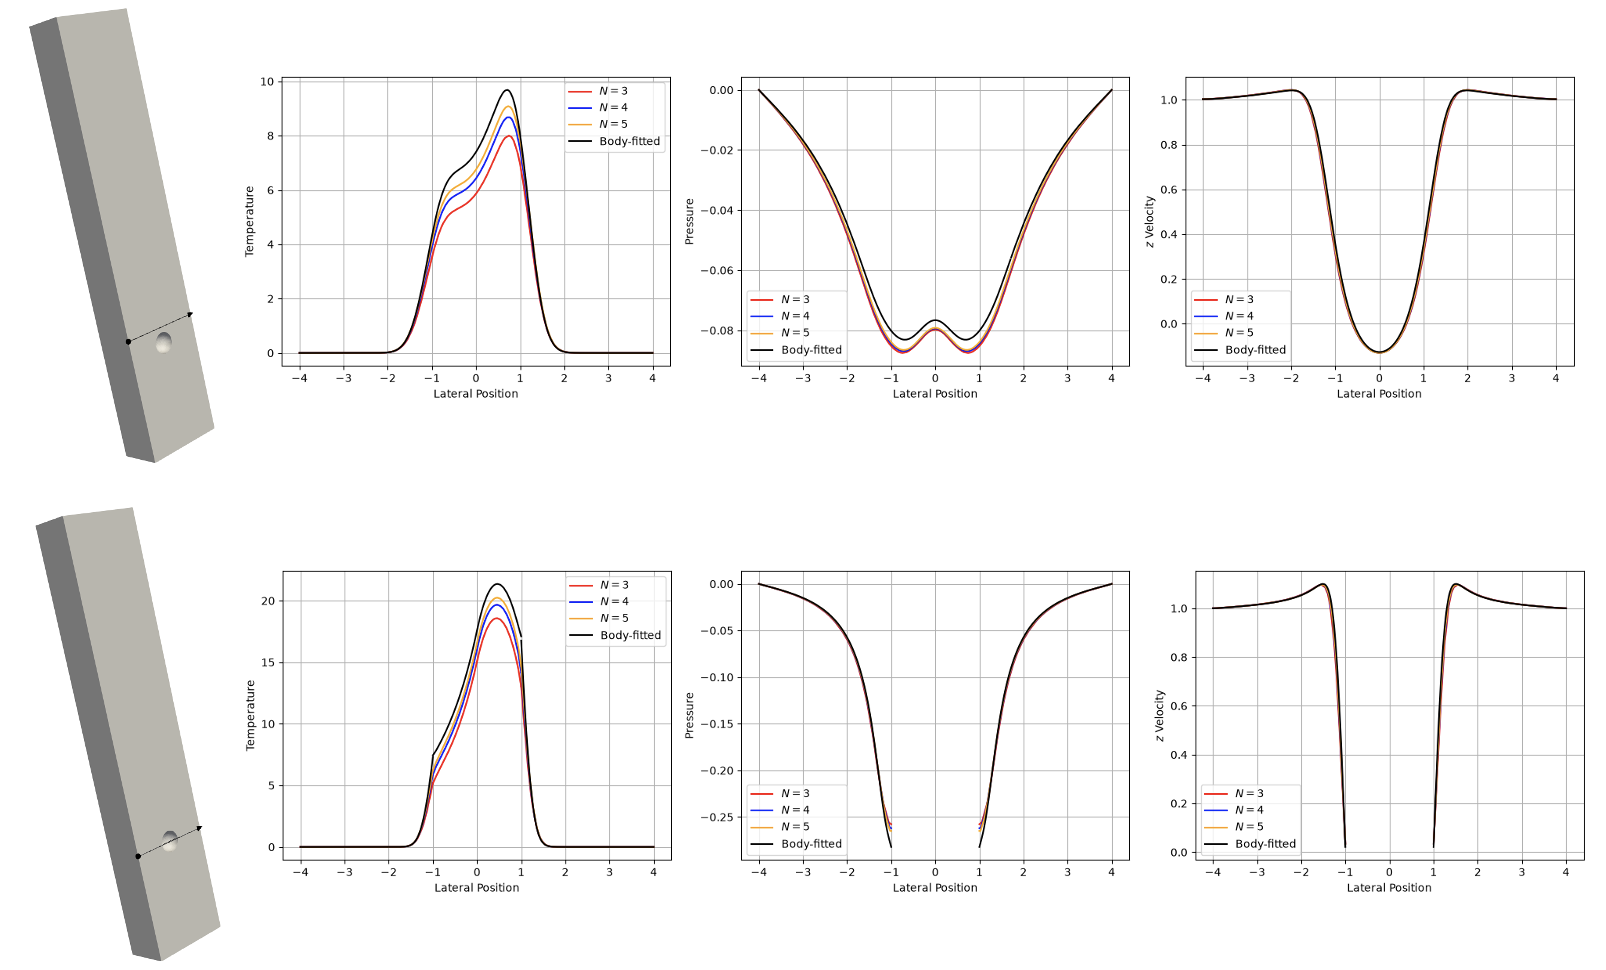
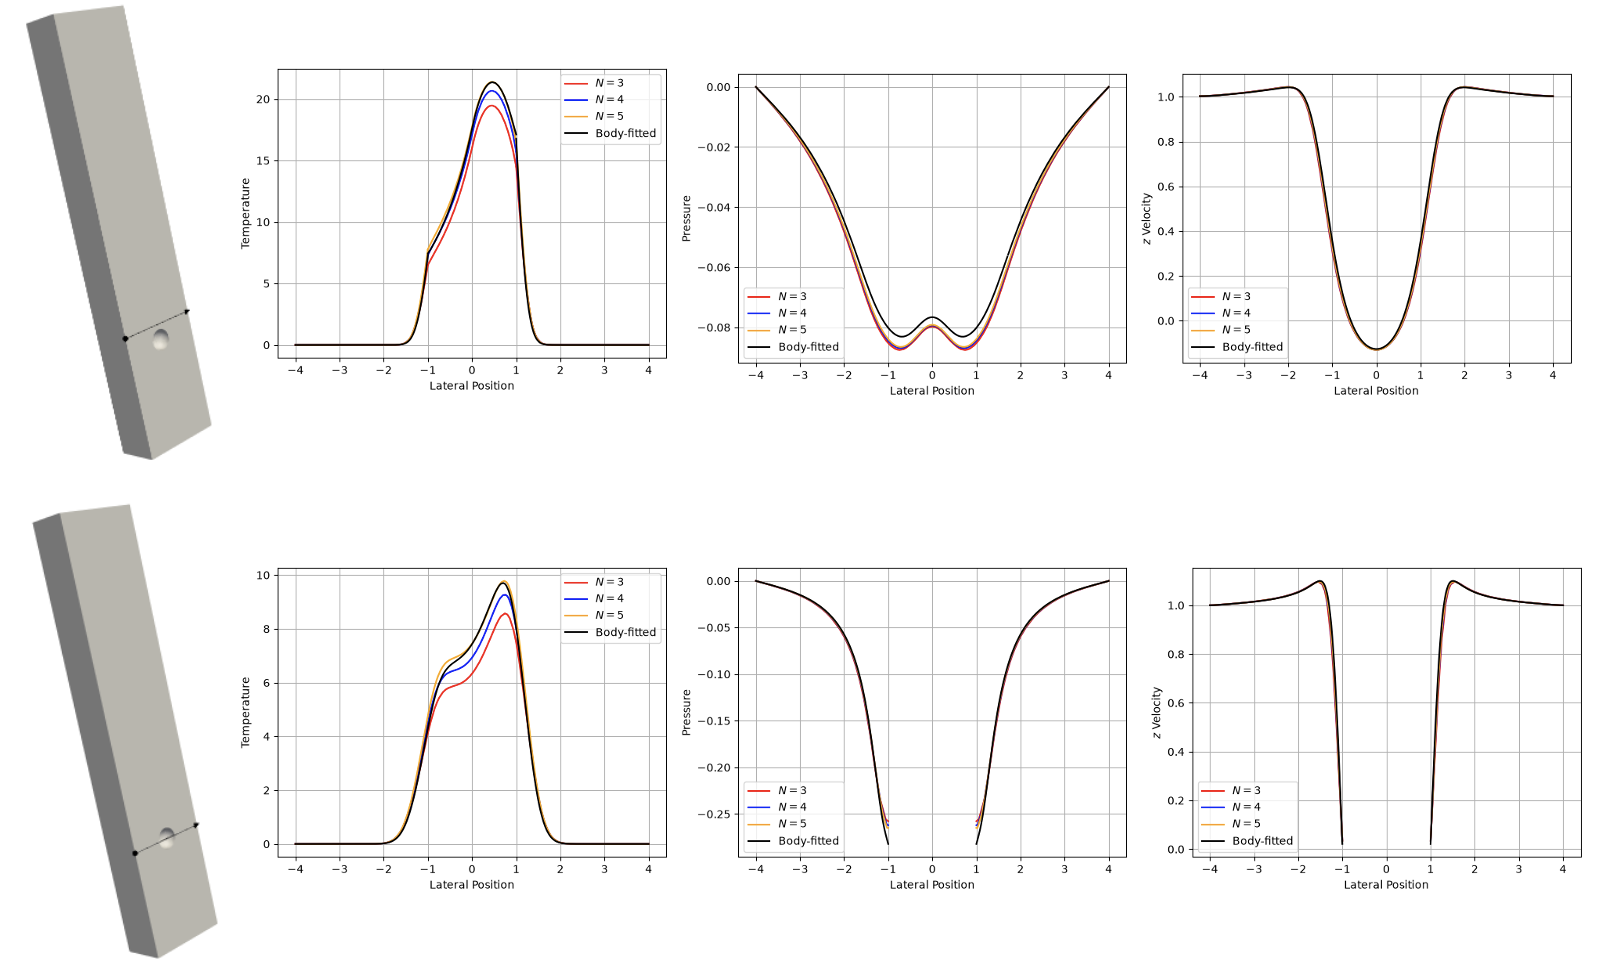
match k

diff --git a/doc/content/tutorials/ibm.md b/doc/content/tutorials/ibm.md
@@ -513,6 +513,12 @@ The rest of the file is fairly standard and not specific to the use of [!ac](IBM
 
 !listing /tutorials/ibm_sphere/cht.i
 
+!alert note
+For [!ac](CHT), it is important to set the thermal conductivity of the [!ac](GLL) points
+inside the body to match the thermal conductivity of the actual solid with which they
+are transferring heat. So, take care to use the correct value of thermal conductivity in
+the `conductivity_kernel` function in the `.oudf` file.
+
 ### Execution and Postprocessing
 
 To run the immersed boundary simulation with [!ac](CHT),
@@ -556,3 +562,4 @@ sphere, since the boundary condition applied to the cut element faces is much mo
 the zero-slip used for velocity. For the temperature boundary condition on the cut faces, a zero heat
 flux boundary condition is used (which is necessary to obtain the correct total heat deposited in the fluid).
 As described in [!cite](hegazy_ibm), features such as NekNek can greatly improve the fidelity.
+
